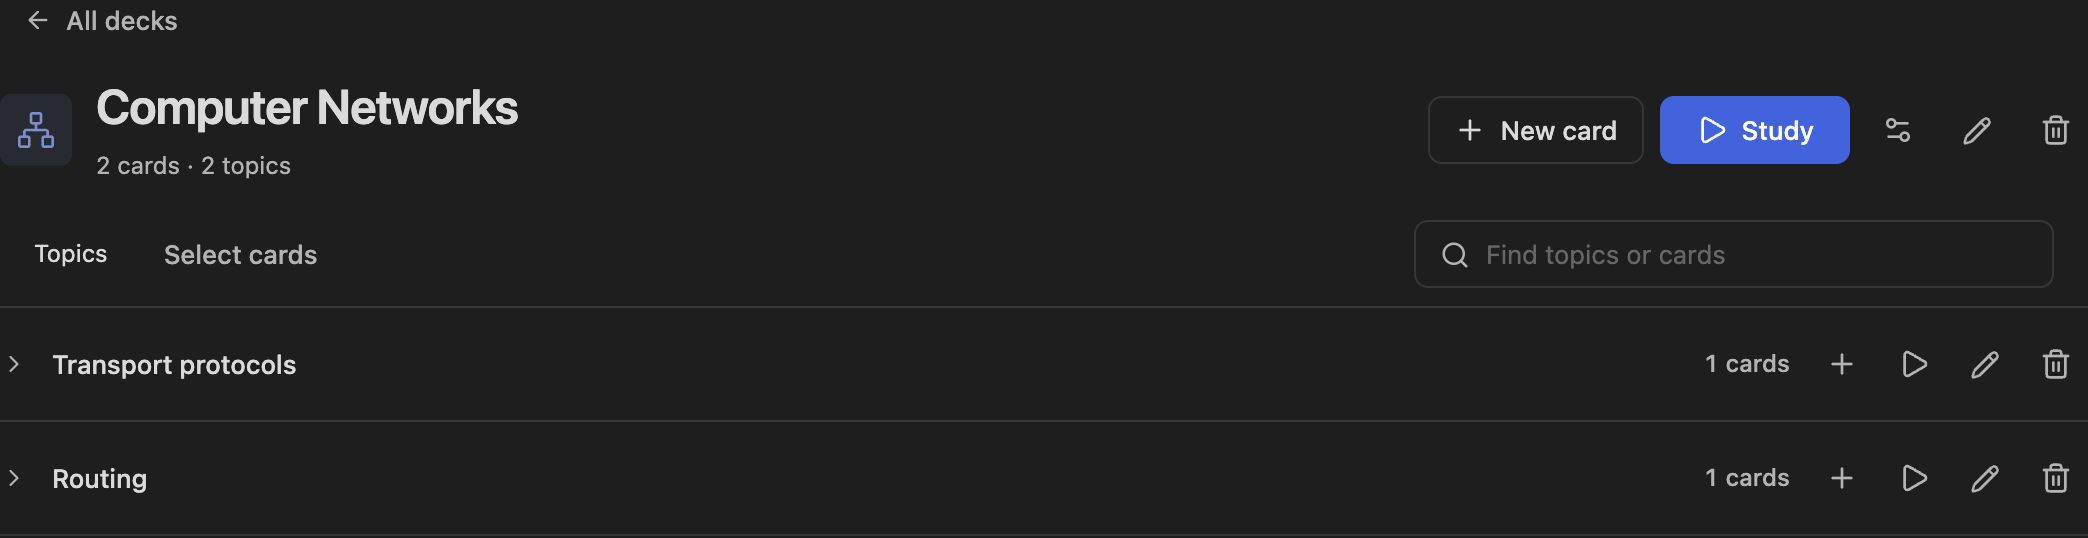
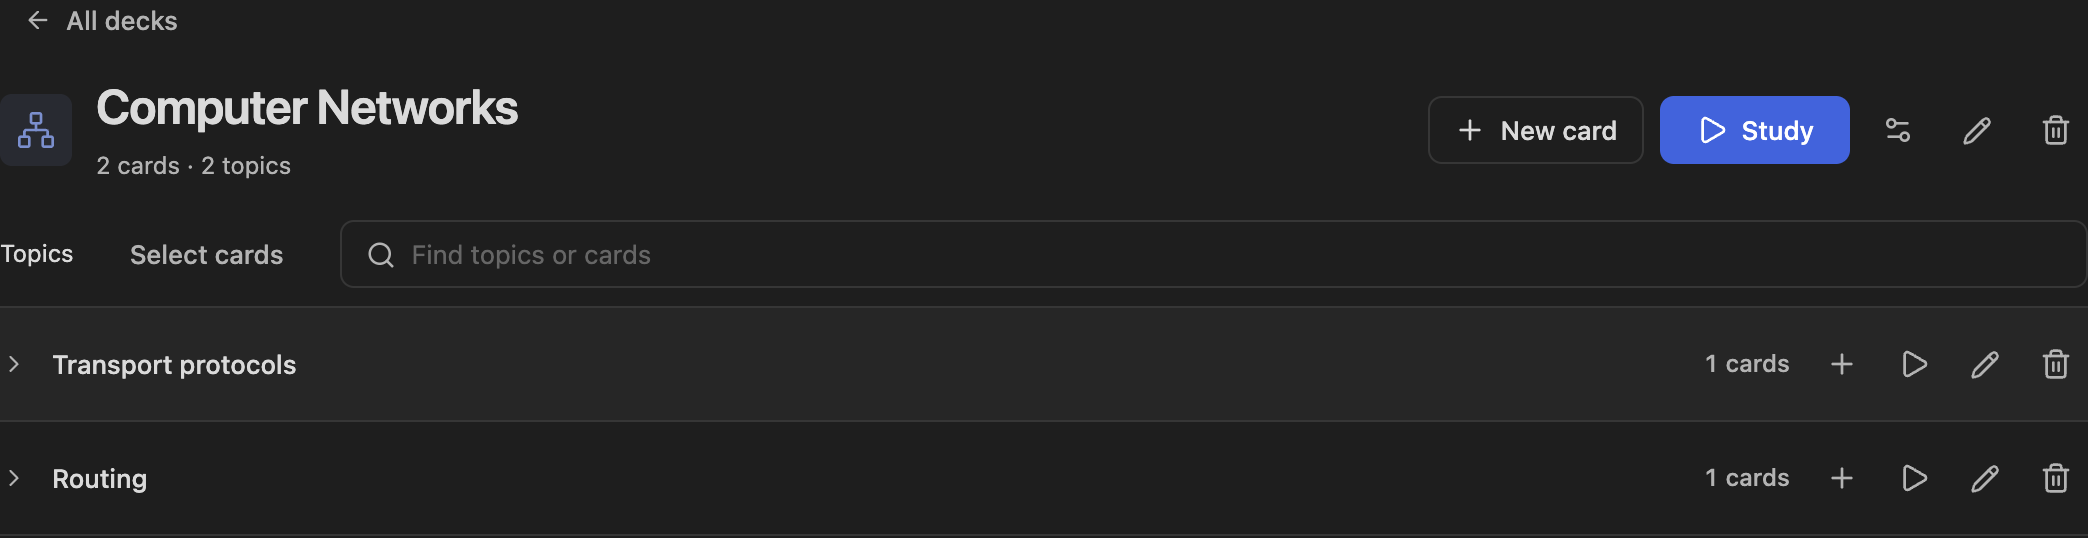
Refresh full-width library search and whole-topic hover comparisons

Changed region(s): [[0.0, 0.4461, 0.3113, 0.5056], [0.6849, 0.4461, 0.8405, 0.5056]]

diff --git a/docs/images/ui-main-latest/audit-report.md b/docs/images/ui-main-latest/audit-report.md
@@ -1,3 +1,17 @@
+# Full-width search and topic hover verification
+
+Latest source `36c2aef14ba91a3efb2236a462d22c144f53d73c`. Screenshot baseline remains upstream main `70056821914f0dae910b52a20f1fa3329b04d0ac`.
+
+- Removed the library search maximum width and its redundant compact override. Search uses all remaining width beside filters and topic controls, and fills wrapped rows.
+- Removed inline padding from the topic library toolbar so text and search align with the content edges.
+- Topic-heading hover uses the same shared soft surface as deck rows across the entire row. The main disclosure button stays transparent over it; individual icon controls retain the stronger shared control-hover surface.
+- All 32 browser cases passed across 320–1440px panes in both themes, including a narrow desktop pane. They verify available-width fill with and without a repair filter, zero toolbar side padding, full row hover, individual action hover, filtering, typography, control styling and overflow.
+- CSS formatting, CSS lint, production build and release verification passed. No runtime code or test cases changed; the preceding full suite passed 767 tests.
+- Eight existing main-to-latest pairs were refreshed without adding examples. Gallery remains 52 pairs.
+- The isolated Obsidian build was refreshed; current working plugin files and global Obsidian files were preserved using before/after hashes.
+
+## Prior verification
+
 # Deck and topic search verification
 
 Latest source `f303c63d9e66a45a072d133d84a8c0de35c31457`. Screenshot baseline remains upstream main `70056821914f0dae910b52a20f1fa3329b04d0ac`.
